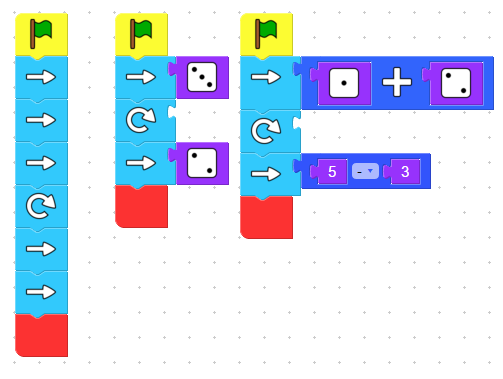
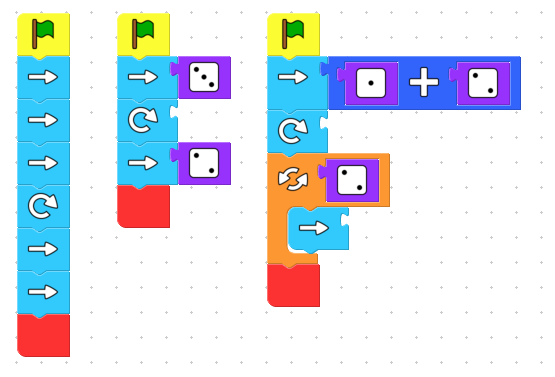
Repeat loop.

Changed region(s): [[0.2087, 0.0292, 0.9841, 0.817], [0.0298, 0.0292, 0.1491, 0.9629], [0.0298, 0.4668, 0.0596, 0.496]]

diff --git a/demos/junior/index.html b/demos/junior/index.html
@@ -116,6 +116,15 @@
         <block type="plus"></block>
         <block type="minus"></block>
     </category>
+    <category name="Loops">
+        <block type="repeat_loop">
+			<value name="TIMES">
+				<shadow type="dice_4"></block>
+			</value> 
+		</block>
+
+    </category>
+<category name="Advanced">
      <category id="catLogic" colour="210">
       <block type="controls_if"></block>
       <block type="logic_compare"></block>
@@ -414,10 +423,10 @@
       </block>
     </category>
 
-
     <sep></sep>
     <category id="catVariables" colour="330" custom="VARIABLE"></category>
     <category id="catFunctions" colour="290" custom="PROCEDURE"></category>
+</category>
   </xml>
 
   
@@ -474,7 +483,7 @@
       </block>
     </next>
   </block>
-  <block type="green_flag" x="313" y="38">
+  <block type="green_flag" x="338" y="38">
     <next>
       <block type="right_r">
         <value name="REPEAT">
@@ -489,31 +498,15 @@
         </value>
         <next>
           <block type="turn_right_r">
-		  <value name="REPEAT">
-                      <shadow type="dice_1">
-                        <field name="NUM">1</field>
-                      </shadow>
-
-                    </value>
             <next>
-              <block type="right_r">
-                <value name="REPEAT">
-                  <block type="math_arithmetic">
-                    <field name="OP">MINUS</field>
-                    <value name="A">
-                      <shadow type="math_number">
-                        <field name="NUM">1</field>
-                      </shadow>
-                      <block type="num_5"></block>
-                    </value>
-                    <value name="B">
-                      <shadow type="math_number">
-                        <field name="NUM">1</field>
-                      </shadow>
-                      <block type="num_3"></block>
-                    </value>
-                  </block>
+              <block type="repeat_loop">
+                <value name="TIMES">
+                  <shadow type="dice_4"></shadow>
+                  <block type="dice_2"></block>
                 </value>
+                <statement name="DO">
+                  <block type="right_r"></block>
+                </statement>
                 <next>
                   <block type="end"></block>
                 </next>

diff --git a/generators/javascript/junior.js b/generators/javascript/junior.js
@@ -288,3 +288,16 @@ Blockly.JavaScript['minus'] = function(block) {
   // TODO: Change ORDER_NONE to the correct strength.
   return [code, Blockly.JavaScript.ORDER_ATOMIC];
 };
+
+Blockly.JavaScript['repeat_loop'] = function(block) {
+  var value_times = Blockly.JavaScript.valueToCode(block, 'TIMES', Blockly.JavaScript.ORDER_ATOMIC);
+  var statements_do = Blockly.JavaScript.statementToCode(block, 'DO');
+  // TODO: Assemble JavaScript into code variable.
+  var code = '';
+  for(var i=0; i<value_times; i++)
+  {
+	  code = code+statements_do;
+  }
+  return code;
+};
+

diff --git a/blocks/junior.js b/blocks/junior.js
@@ -418,5 +418,19 @@ Blockly.Blocks['minus'] = {
   }
 };
 
-
+Blockly.Blocks['repeat_loop'] = {
+  init: function() {
+    this.appendDummyInput()
+        .appendField(new Blockly.FieldImage("../../img/jr_repeat.png", 32, 32, "*"));
+    this.appendValueInput("TIMES")
+        .setCheck("Number");
+    this.appendStatementInput("DO");
+    this.setInputsInline(true);
+    this.setPreviousStatement(true);
+    this.setNextStatement(true);
+    this.setColour(30);
+    this.setTooltip('');
+    this.setHelpUrl('http://www.example.com/');
+  }
+};
 
